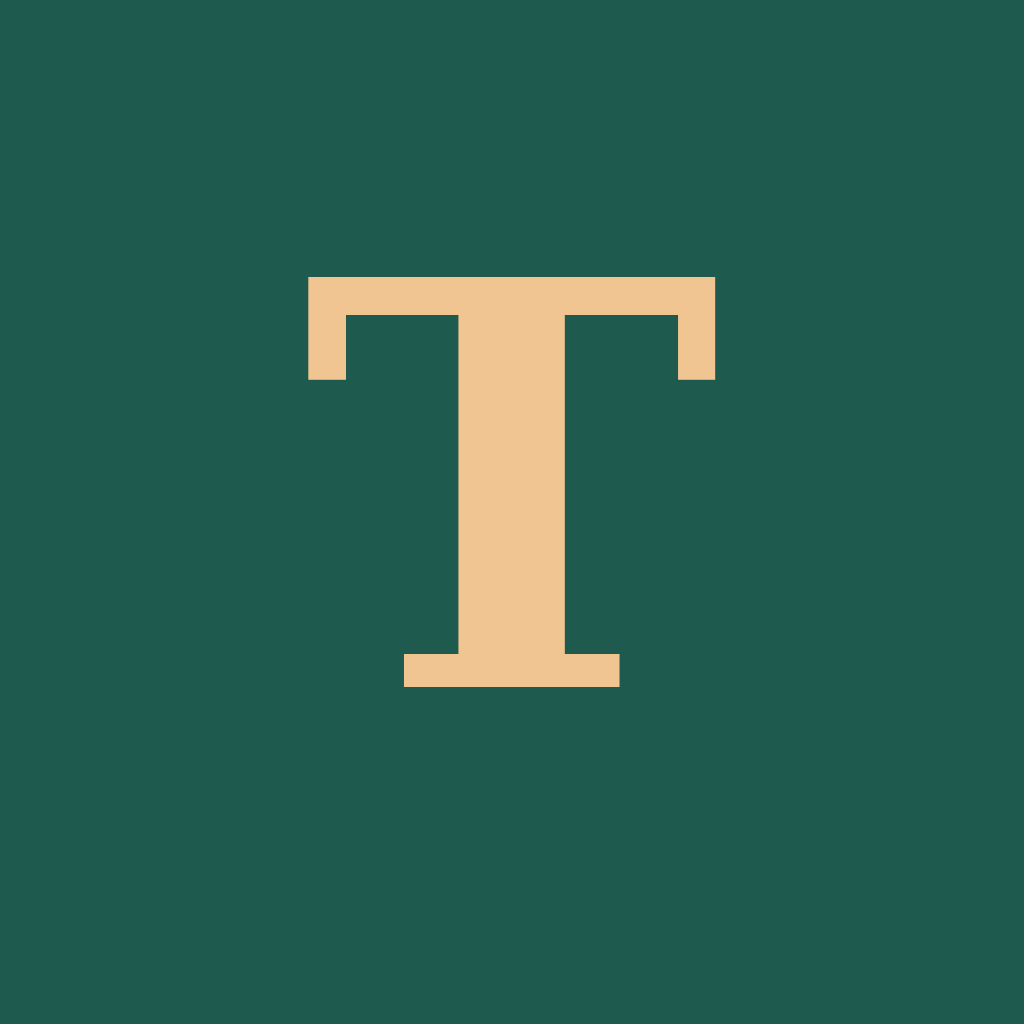
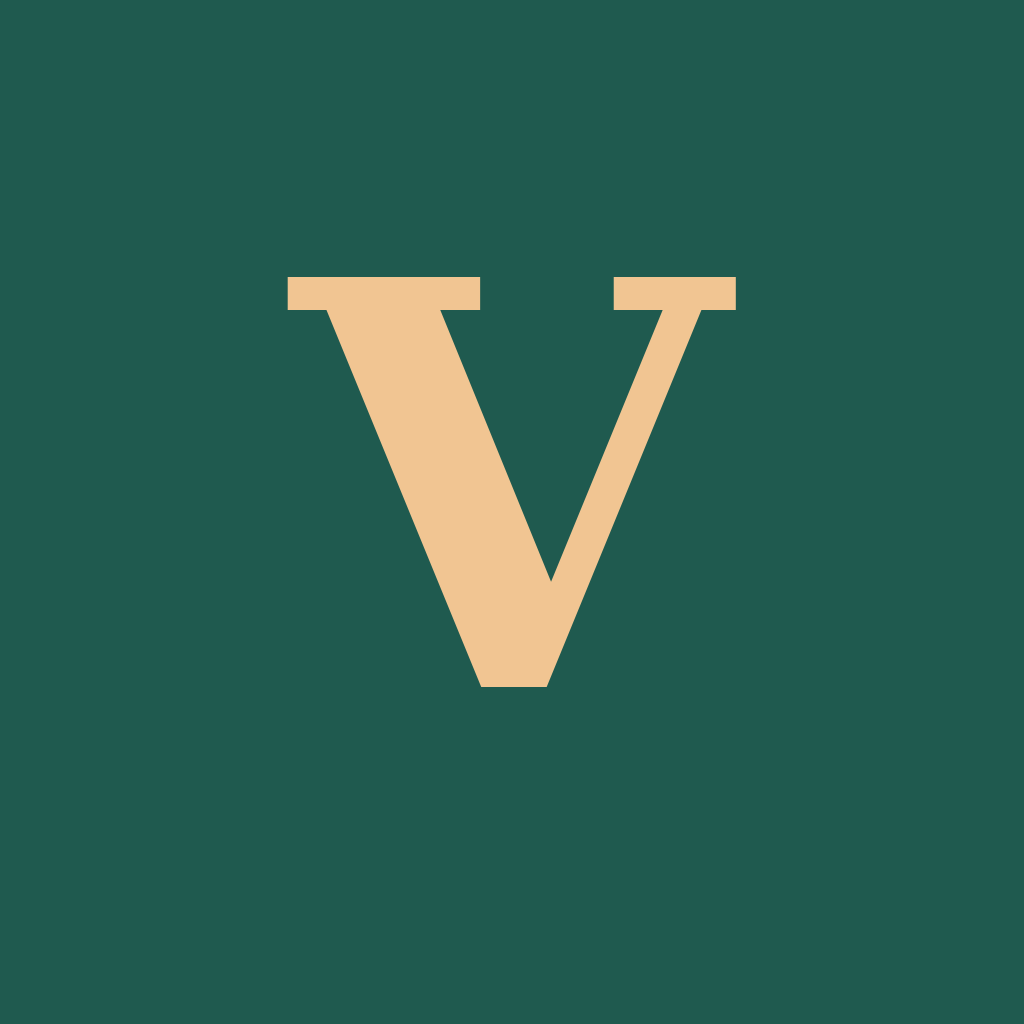
Rebrand to Vlink + invite links, catalogue import, email notifications, PWA

Changed region(s): [[0.2812, 0.25, 0.7188, 0.6875]]

diff --git a/public/index.html b/public/index.html
@@ -3,7 +3,7 @@
 <head>
 <meta charset="UTF-8">
 <meta name="viewport" content="width=device-width, initial-scale=1.0, maximum-scale=1.0">
-<title>Tabe — Restaurants & Vendors</title>
+<title>Vlink — Restaurants & Vendors</title>
 <meta name="description" content="The supply link between restaurants and their vendors. Order groceries, track balances, run your kitchen.">
 <link rel="manifest" href="/manifest.json">
 <meta name="theme-color" content="#1f5a4f">
@@ -12,7 +12,7 @@
 <meta name="apple-mobile-web-app-capable" content="yes">
 <meta name="mobile-web-app-capable" content="yes">
 <meta name="apple-mobile-web-app-status-bar-style" content="black-translucent">
-<meta name="apple-mobile-web-app-title" content="Tabe">
+<meta name="apple-mobile-web-app-title" content="Vlink">
 <link rel="preconnect" href="https://fonts.googleapis.com">
 <link rel="preconnect" href="https://fonts.gstatic.com" crossorigin>
 <link href="https://fonts.googleapis.com/css2?family=Inter:wght@400;500;600;700;800&family=DM+Serif+Display&display=swap" rel="stylesheet">
@@ -211,7 +211,7 @@ body{font-family:'Inter',-apple-system,BlinkMacSystemFont,"Segoe UI",Roboto,Helv
 </style>
 </head>
 <body>
-  <div id="app"><div class="empty" style="margin-top:120px"><div class="spinner" style="border-top-color:var(--brand);border-color:rgba(31,90,79,.2)"></div><div class="et" style="margin-top:18px">Loading Tabe…</div></div></div>
+  <div id="app"><div class="empty" style="margin-top:120px"><div class="spinner" style="border-top-color:var(--brand);border-color:rgba(31,90,79,.2)"></div><div class="et" style="margin-top:18px">Loading Vlink…</div></div></div>
   <div class="toast" id="toast"></div>
   <div class="modal" id="modal"><div class="sheet" id="sheet"></div></div>
 <script>
@@ -288,7 +288,7 @@ async function doLogin(email,password){
   catch(e){ toast(e.message,true); }
 }
 async function doSignup(payload){
-  try{ const r=await api("POST","/api/signup",payload); token=r.token; localStorage.setItem("tabe_token",token); me=r.user; await refreshAll(); route={view:me.role==="restaurant"?"r_home":"v_home"}; render(); toast("Welcome to Tabe!"); }
+  try{ const r=await api("POST","/api/signup",payload); token=r.token; localStorage.setItem("tabe_token",token); me=r.user; await refreshAll(); route={view:me.role==="restaurant"?"r_home":"v_home"}; render(); toast("Welcome to Vlink!"); }
   catch(e){ toast(e.message,true); }
 }
 function logout(){ token=null; localStorage.removeItem("tabe_token"); me=null; state={vendors:[],restaurants:[],orders:[],payments:[],pantry:[],offers:[],ledger:{},vendorDetails:{}}; cart={}; route={view:"auth"}; authMode="login"; render(); }
@@ -335,10 +335,10 @@ function render(){
 
 /* ========== AUTH SCREENS ========== */
 function authHTML(){
-  let h='<div class="auth"><div class="hero"><div class="lg">Ta<span>be</span></div><div class="tag">The supply link between restaurants & their vendors</div></div><div class="body">';
+  let h='<div class="auth"><div class="hero"><div class="lg">V<span>link</span></div><div class="tag">The supply link between restaurants & their vendors</div></div><div class="body">';
   if(inviter){
     h+='<div style="background:var(--accent-l);border:1px solid #efd6b1;border-radius:12px;padding:13px;margin-bottom:16px">'+
-      '<div style="font-family:\'Inter\';font-weight:700;font-size:14px;color:#5e3b15">'+(inviter.emoji||"👋")+' '+escapeHtml(inviter.name)+' invited you to Tabe</div>'+
+      '<div style="font-family:\'Inter\';font-weight:700;font-size:14px;color:#5e3b15">'+(inviter.emoji||"👋")+' '+escapeHtml(inviter.name)+' invited you to Vlink</div>'+
       '<div style="font-size:12.5px;color:#8a6a3e;margin-top:3px;font-weight:500">'+(inviter.role==="vendor"?"They supply restaurants like yours — create your restaurant account to order from them.":"They run a restaurant — create your vendor account to receive their orders.")+'</div></div>';
   }
   h+='<div class="switch"><div class="'+(authMode==="login"?"on":"")+'" onclick="setAuthMode(\'login\')">Sign in</div><div class="'+(authMode==="signup"?"on":"")+'" onclick="setAuthMode(\'signup\')">Create account</div></div>';
@@ -445,7 +445,7 @@ function rHome(){
     h+='</div>';
   }
   h+='<div class="sectionlabel">Your vendors</div>';
-  if(!state.vendors.length) h+=emptyState("No vendors yet","Once vendors register on Tabe, you can browse them here.");
+  if(!state.vendors.length) h+=emptyState("No vendors yet","Once vendors register on Vlink, you can browse them here.");
   state.vendors.forEach(v=>{ const bal=balanceWith(v.id); const g=gradFor(v.id);
     h+='<div class="card tap" onclick="go(\'r_vendor\',{vendorId:\''+v.id+'\'})"><div class="row">'+
       '<div class="avatar grad" style="--g1:'+g[0]+';--g2:'+g[1]+'">'+(v.emoji||"🏪")+'</div>'+
@@ -538,7 +538,7 @@ function rLedger(){
 }
 function toggleLed(id){ const e=$("led_"+id); if(e) e.style.display=e.style.display==="none"?"block":"none"; }
 function rOffers(){
-  let h='<div class="hd">Offers</div><div class="sub2">Deals from vendors on Tabe</div>';
+  let h='<div class="hd">Offers</div><div class="sub2">Deals from vendors on Vlink</div>';
   if(!state.offers.length) return h+emptyState("No live offers","Check back later.");
   state.offers.forEach(o=>{
     h+='<div class="offer"><span class="tag">'+escapeHtml(o.vendor_name||"")+'</span><div class="ot">'+escapeHtml(o.title)+'</div><div class="od">'+escapeHtml(o.description||"")+'</div><div class="ov">'+escapeHtml(o.expiry||"")+'</div>'+
@@ -785,7 +785,7 @@ async function submitProduct(){ const id=$("f_pid").value; const n=$("f_pn").val
   if(!n){ toast("Enter a product name",true); return; } if(!p||p<=0){ toast("Enter a price",true); return; }
   try{ if(id) await api("PATCH","/api/items/"+id,{name:n,emoji:e,price:p}); else await api("POST","/api/items",{name:n,emoji:e,price:p}); delete state.vendorDetails[me.id]; await ensureMyCatalog(); closeModal(); toast("Catalogue updated ✓"); render(); }catch(e2){ toast(e2.message,true); }
 }
-function openOfferModal(){ openModal('<h3>New offer</h3><p>All restaurants on Tabe will see this.</p>'+
+function openOfferModal(){ openModal('<h3>New offer</h3><p>All restaurants on Vlink will see this.</p>'+
   '<label>Headline</label><input id="f_ot" placeholder="e.g. 10% off Basmati Rice">'+
   '<label>Details</label><textarea id="f_od" placeholder="Short description"></textarea>'+
   '<label>Valid until</label><input id="f_oe" placeholder="e.g. Ends May 31">'+

diff --git a/server.js b/server.js
@@ -1,4 +1,4 @@
-// Tabe — Express + SQLite + JWT backend
+// Vlink — Express + SQLite + JWT backend
 // Single-file server. Run: npm install && npm start
 
 const fs = require("fs");
@@ -140,7 +140,7 @@ CREATE INDEX IF NOT EXISTS idx_pantry_restaurant ON pantry(restaurant_id);
 // ===== Email notifications (Resend) =====
 // Set RESEND_API_KEY (and optionally EMAIL_FROM) in env to activate. No-ops silently otherwise.
 const RESEND_API_KEY = process.env.RESEND_API_KEY || null;
-const EMAIL_FROM = process.env.EMAIL_FROM || "Tabe <onboarding@resend.dev>";
+const EMAIL_FROM = process.env.EMAIL_FROM || "Vlink <onboarding@resend.dev>";
 async function sendEmail(to, subject, html) {
   if (!RESEND_API_KEY || !to || to.endsWith("@demo.tabe")) return; // skip demo accounts
   try {
@@ -156,7 +156,7 @@ async function sendEmail(to, subject, html) {
 function emailWrap(title, body) {
   return `<div style="font-family:Arial,sans-serif;max-width:480px;margin:0 auto">
     <div style="background:#1f5a4f;color:#fff;padding:18px 22px;border-radius:12px 12px 0 0">
-      <div style="font-size:22px;font-weight:bold">Tabe</div>
+      <div style="font-size:22px;font-weight:bold">Vlink</div>
     </div>
     <div style="border:1px solid #e5e5e5;border-top:none;padding:22px;border-radius:0 0 12px 12px">
       <h2 style="margin:0 0 10px;font-size:17px;color:#0f1a17">${title}</h2>
@@ -315,10 +315,10 @@ app.post("/api/orders", auth, requireRole("restaurant"), (req, res) => {
   // notify vendor of the new order
   const itemsHtml = items.map(it => `<li>${it.qty} × ${it.name} — $${(it.qty * it.price).toFixed(2)}</li>`).join("");
   sendEmail(v.email, `New order from ${req.user.name} — $${total.toFixed(2)}`,
-    emailWrap("You have a new order on Tabe",
+    emailWrap("You have a new order on Vlink",
       `<p><b>${req.user.name}</b> just placed an order:</p><ul>${itemsHtml}</ul>
        <p><b>Total: $${total.toFixed(2)}</b></p>
-       <p>Open Tabe to confirm it.</p>`));
+       <p>Open Vlink to confirm it.</p>`));
   res.json({ orderId: id, total });
 });
 
@@ -342,7 +342,7 @@ app.patch("/api/orders/:id/status", auth, (req, res) => {
       const msgs = {
         Confirmed: ["Your order was confirmed ✓", `<p><b>${req.user.name}</b> confirmed your order of $${o.total.toFixed(2)}. It's on the schedule.</p>`],
         Declined: ["Your order was declined", `<p><b>${req.user.name}</b> couldn't take your order of $${o.total.toFixed(2)}. Reach out to them or try another vendor.</p>`],
-        Delivered: ["Your order was delivered 📦", `<p><b>${req.user.name}</b> marked your $${o.total.toFixed(2)} order as delivered. The bill is now on your Tabe ledger.</p>`],
+        Delivered: ["Your order was delivered 📦", `<p><b>${req.user.name}</b> marked your $${o.total.toFixed(2)} order as delivered. The bill is now on your Vlink ledger.</p>`],
       };
       const m = msgs[status];
       if (m) sendEmail(rest.email, m[0], emailWrap(m[0], m[1]));
@@ -387,10 +387,10 @@ app.post("/api/payments", auth, (req, res) => {
   db.prepare("INSERT INTO payments (id,vendor_id,restaurant_id,amount,method,date,created_at) VALUES (?,?,?,?,?,?,?)")
     .run(id, vendorId, restaurantId, Math.round(amt * 100) / 100, method || "Cash", today(), new Date().toISOString());
   // notify the counterparty
-  sendEmail(other.email, `Payment of $${amt.toFixed(2)} recorded on Tabe`,
+  sendEmail(other.email, `Payment of $${amt.toFixed(2)} recorded on Vlink`,
     emailWrap("Payment recorded",
       `<p><b>${req.user.name}</b> recorded a payment of <b>$${amt.toFixed(2)}</b> (${method || "Cash"}).</p>
-       <p>Your shared balance has been updated — open Tabe to see the ledger.</p>`));
+       <p>Your shared balance has been updated — open Vlink to see the ledger.</p>`));
   res.json({ paymentId: id });
 });
 
@@ -609,5 +609,5 @@ seedIfEmpty();
 app.get("*", (req, res) => res.sendFile(path.join(__dirname, "public", "index.html")));
 
 app.listen(PORT, "0.0.0.0", () => {
-  console.log(`Tabe running on port ${PORT}`);
+  console.log(`Vlink running on port ${PORT}`);
 });

diff --git a/README.md b/README.md
@@ -1,4 +1,4 @@
-# Tabe
+# Vlink
 
 The supply link between restaurants and their vendors. Ordering, offers, and a running ledger — all in one place.
 
